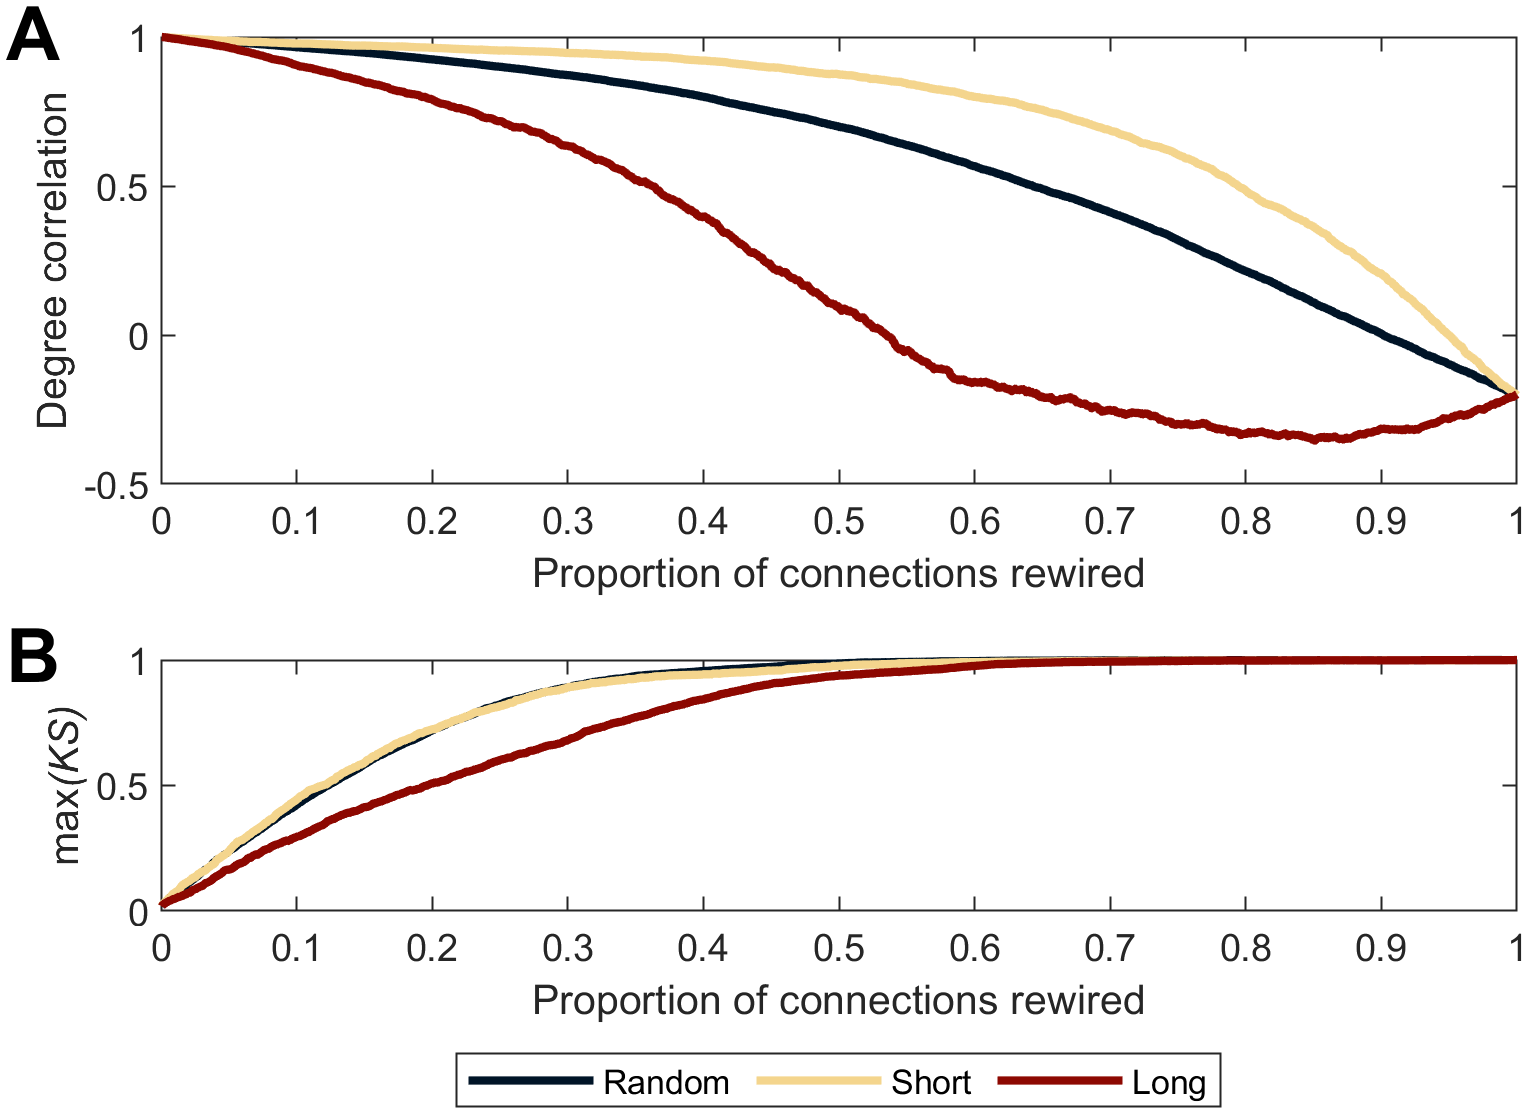
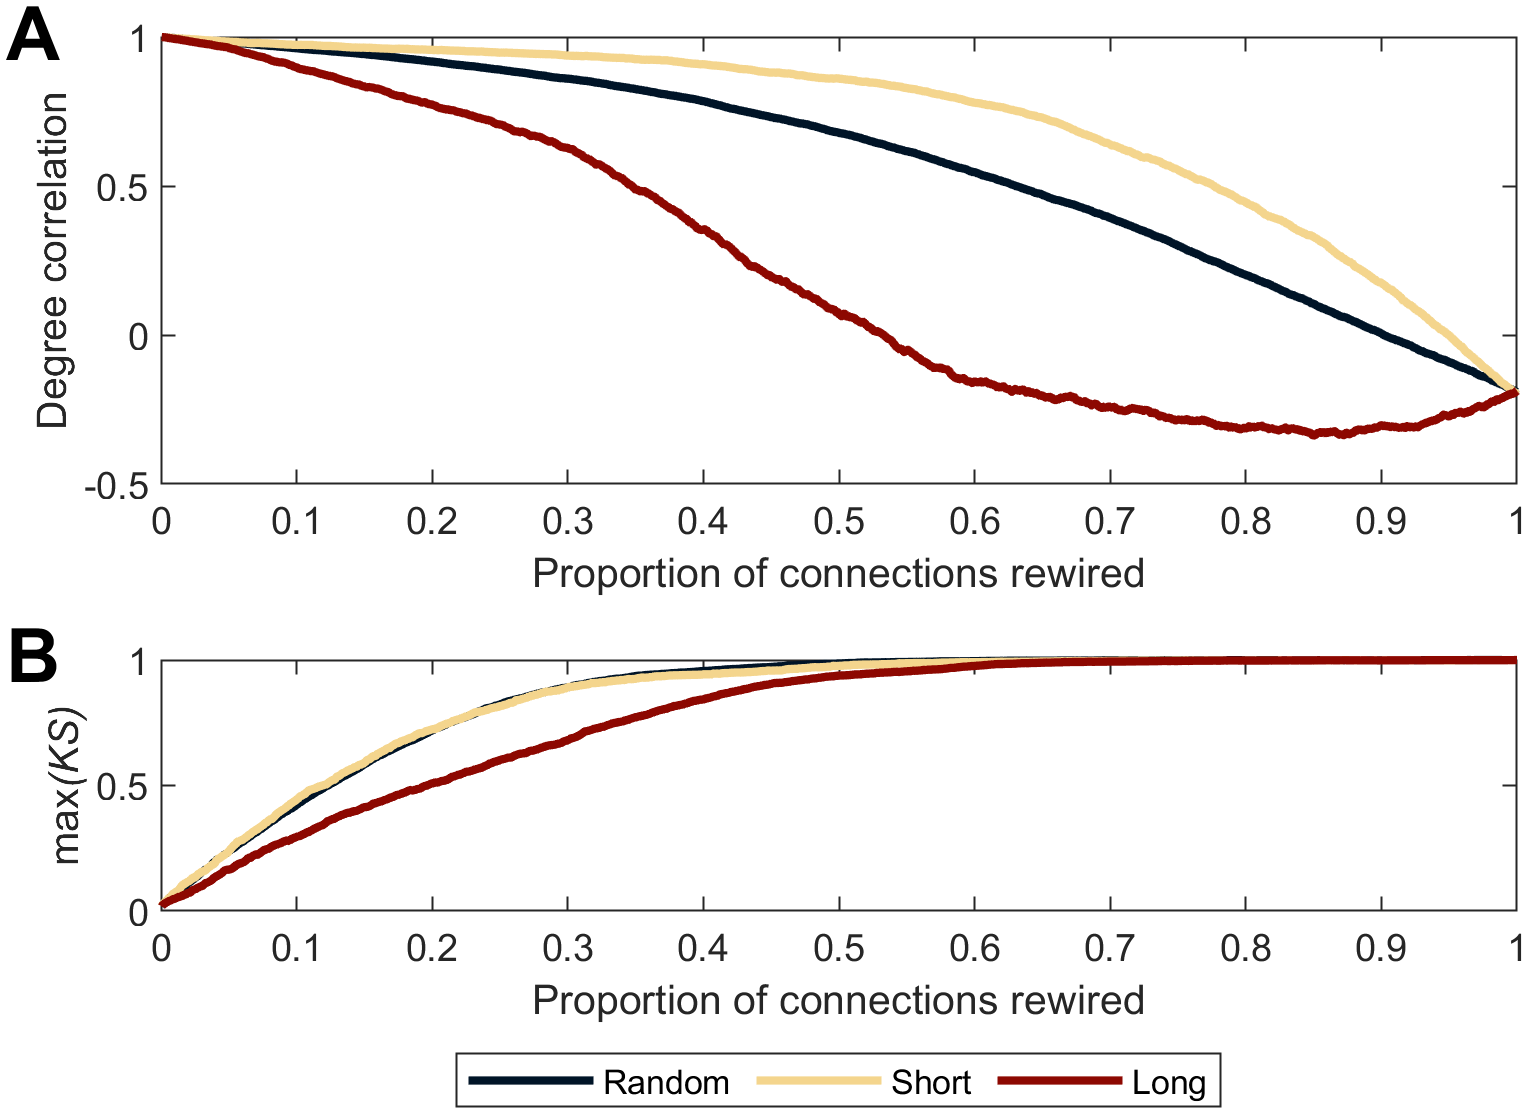
Updated rewiring figures

diff --git a/code/figures/PlotIterativeRewirings.m b/code/figures/PlotIterativeRewirings.m
@@ -15,7 +15,7 @@ rewiring_name = {'Random','Short','Long','Short-dissimilar','Long-dissimilar'};
 
 KScolors = lines(4);
 
-load('Hansen400_rewirings.mat')
+load('Network_rewirings.mat')
 
 
 FtypeName = {'max\it{(KS)}','max\it{(RMSE)}','max\it{(r_d )}','\it{TND}','\it{TF_{diff}}'};
